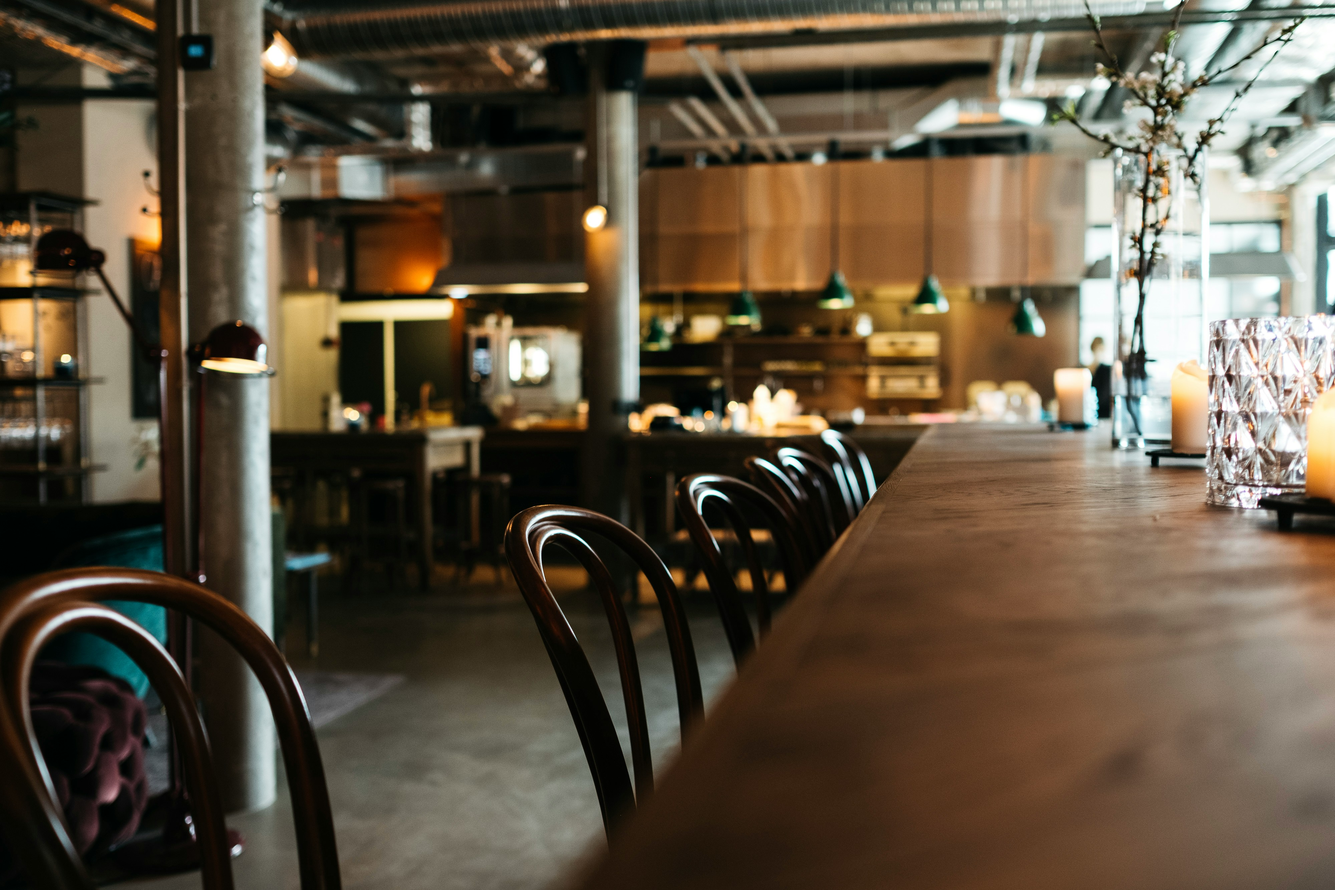
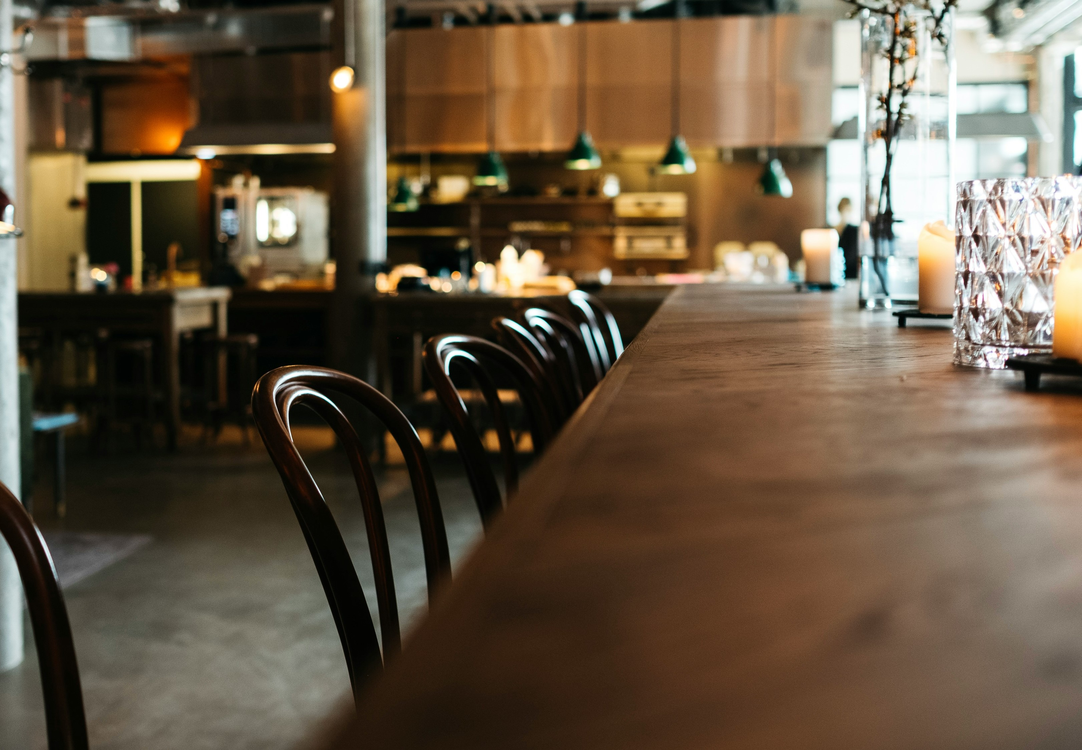
Pâtisserie du Café

diff --git a/index.html b/index.html
@@ -27,45 +27,44 @@
 <body>
     <header class="navbar navbar-expand-lg sticky-top p-4" id="cabecalho">
         <div class="container">
-            <h1 class="navbar-brand m-0 section-title">Pâtisserie du Café</h1>
+            <h1 class="navbar-brand m-0 section-title fs-3 fw-bold">Pâtisserie du Café</h1>
 
             <nav class="navbar-collapse collapse justify-content-end" id="navegation">
-                <li class="nav-item fw-bold">
+                <li class="nav-item fw-bold m-4">
                     <a href="#" class="nav-link">Home</a>
                 </li>
 
-                <li class="nav-item fw-bold">
+                <li class="nav-item fw-bold m-4">
                     <a href="#" class="nav-link">Cafés</a>
                 </li>
 
-                <li class="nav-item fw-bold">
+                <li class="nav-item fw-bold m-4">
                     <a href="#" class="nav-link">Produtos</a>
                 </li>
 
-                <li class="nav-item fw-bold">
+                <li class="nav-item fw-bold m-4">
                     <a href="#" class="nav-link">Contatos</a>
                 </li>
             </nav>
         </div>
     </header>
 
-    <main>
-        
+    <main>     
         <div data-bs-spy="scroll" data-bs-target="#cabecalho">
             <!--data-bs-smooth-scroll="true"-->
             <section id="slides">
                 <div class="carousel slide" data-bs-ride="carousel" id="carousel">
                     <div class="carousel-inner">
                         <div class="carousel-item active" data-bs-interval="3000">
-                            <img src="images/Local/Cofffee.jpg" alt="Graõs de Café">
+                            <img class="w-100" src="images/Local/coffee.jpg" alt="Graõs de Café">
                         </div>
 
                         <div class="carousel-item" data-bs-interval="3000">
-                            <img src="images/Local/fachada.jpg" alt="Fachada">
+                            <img class="w-100" src="images/Local/fachada.jpg" alt="Fachada">
                         </div>
 
                         <div class="carousel-item" data-bs-interval="3000">
-                            <img src="images/Local/interno da loja.jpg" alt="Interno da Loja">
+                            <img class="w-100" src="images/Local/interno da loja.jpg" alt="Interno da Loja">
                         </div>
                     </div>
 
@@ -88,8 +87,293 @@
                     </div>
                 </div>
             </section>
-
         </div>
+
+            <!--Produtos-->
+        <section id="produtos" class="pt-5">
+            <div class="container">
+                <div class="row">
+                    <h3 class="section-title text-center fs-1 mb-3">Grãos</h3>
+                </div>
+            </div>
+
+            <div class="row">
+                <div class="col-md-4">
+                    <img src="images/Marcas de café/coffee 3.jpg" alt="Battlecreek Coffee" class="d-block w-100 rounded mb-2 p-3">
+                    <h3 class="section-title m-3">Battlecreek Coffee</h3>
+                    <p class="m-3">O Battlecreek Coffee é uma empresa de café conhecida por sua abordagem artesanal na torrefação e preparo de café. Eles se destacam pela qualidade dos grãos selecionados e pela ênfase na sustentabilidade e comércio justo. Sua variedade de blends e single origins atrai entusiastas de café em busca de sabores distintos e de alta qualidade.</p>
+                </div>
+
+                <div class="col-md-4">
+                    <img src="images/Marcas de café/coffee 1.jpg" alt="Madalyn Coffee" class="d-block w-100 rounded mb-2 p-3">
+                    <h3 class="section-title">Madalyn Coffee</h3>
+                    <p>O Madalyn Coffee é uma marca de café especializada, famosa por suas torrefações artesanais e compromisso com a qualidade dos grãos. Eles oferecem uma variedade de blends e single origins, com ênfase em sabores distintos e autênticos. Sua abordagem sustentável e foco no comércio justo também são características marcantes da marca.</p>
+                </div>
+
+                <div class="col-md-4">
+                    <img src="images/Marcas de café/coffee 2.jpg" alt="Buddha Beans Coffee" class="d-block w-100 rounded mb-2 p-3">
+                    <h3 class="section-title">Buddha Beans Coffee</h3>
+                    <p>O Buddha Beans Coffee é uma empresa de café que se destaca pela sua abordagem única e espiritual. Eles combinam a arte da torrefação artesanal com a filosofia budista, buscando criar uma experiência de café que alimente não apenas o corpo, mas também a mente e o espírito. Seus produtos são conhecidos por sua qualidade premium e por promover uma sensação de bem-estar.</p>
+                </div>
+            </div>
+        </section>
+
+        <!--Cardápio-->
+        <section id="coffee" class="pt-5 pb-5">
+            <div class="container">
+                <div class="row">
+                    <h2 class="section-title text-center mb-5">Cafés</h2>
+                </div>      
+                
+                <!--Tabela-->
+                <div class="row">
+                    <aside class="col-md-2">
+                        <nav class="nav nav-pills flex-column nav-cardapio">
+                            <button type="button" data-bs-toggle="tab" data-bs-target="#cafes" class=" fw-bold text-start nav-link active">Cafés</button>
+
+                            <button type="button" data-bs-toggle="tab" data-bs-target="#ice-cafe" class="fw-bold text-start nav-link">Café Gelado</button>
+
+                            <button type="button" data-bs-toggle="tab" data-bs-target="#drinks" class="fw-bold text-start nav-link">Drinks</button>
+
+                            <button type="button" data-bs-toggle="tab" data-bs-target="#salgados" class="fw-bold text-start nav-link">Salgados</button>
+                        </nav>
+                    </aside>
+
+                    <div class="col-md-10">
+                        <div class="tab-content">
+                            <div class="tab-pane active" id="cafes">
+                                <div class="row">
+                                    <div class="col-md-3">
+                                        <img class="d-block w-100" src="images/coffee/café americano.jpg" alt="Café Americano">
+                                        <h5 class="fw-bold mt-2">Café Americano</h5>
+                                        <p>Expresso suavizado com água quente <br><strong>9,50</strong>
+                                        </p>
+                                    </div>
+
+                                    <div class="col-md-3">
+                                        <img class="d-block w-100" src="images/coffee/café com leite.jpg" alt="Café com leite">
+                                        <h5 class="fw-bold mt-2">Café com leite</h5>
+                                        <p>Expresso, leite vaporizado e espuma de leite <br><strong>10,50</strong>
+                                        </p>
+                                    </div>
+
+                                    <div class="col-md-3">
+                                        <img class="d-block w-100" src="images/coffee/café natural.jpg" alt="Café Natural">
+                                        <h5 class="fw-bold mt-2">Café Natural</h5>
+                                        <p>Grãos naturais passado no coador de papel<br><strong>17,00</strong>
+                                        </p>
+                                    </div>
+
+                                    <div class="col-md-3">
+                                        <img class="d-block w-100" src="images/coffee/café tradicional.jpg" alt="Café Tradicional">
+                                        <h5 class="fw-bold mt-2">Café Tradicional</h5>
+                                        <p>Sem açúcar e leite <br><strong>5,00</strong>
+                                        </p>
+                                    </div>
+
+                                    <div class="col-md-3">
+                                        <img class="d-block w-100" src="images/coffee/baunilha latte.jpg" alt="Baunilha Latte">
+                                        <h5 class="fw-bold mt-2">Baunilha Latte</h5>
+                                        <p>Leite vaporizado, expresso e essência de baunilha <br><strong>7,50</strong>
+                                        </p>
+                                    </div>
+
+                                    <div class="col-md-3">
+                                        <img class="d-block w-100" src="images/coffee/cappuccino de canela.jpg" alt="Cappuccino de Canela">
+                                        <h5 class="fw-bold mt-2">Cappuccino de Canela</h5>
+                                        <p>Expresso, canela e leite cremoso, com uma pitada de canela por cima  <br><strong>14,50</strong>
+                                        </p>
+                                    </div>
+
+                                    <div class="col-md-3">
+                                        <img class="d-block w-100" src="images/coffee/cappuccino tradicional.jpg" alt="Cappuccino Tradicional">
+                                        <h5 class="fw-bold mt-2">Cappuccino Tradicional</h5>
+                                        <p>Expresso com leite cremoso<br><strong>10,50</strong>
+                                        </p>
+                                    </div>
+                                </div>
+                            </div>
+
+                            <!--Café Gelado-->
+                            <div class="tab-pane" id="ice-cafe">
+                                <div class="row">
+                                    <div class="col-md-3">
+                                        <img class="d-block w-100" src="images/café gelado/café tradicional.jpg" alt="Café Tradicional Gelado">
+                                        <h5 class="fw-bold mt-2">Café Tradicional Gelado</h5>
+                                        <p>Sem açúcar e sem leite com gelo<br><strong>7,00</strong></p>
+                                    </div>
+    
+                                    <div class="col-md-3">
+                                        <img class="d-block w-100" src="images/café gelado/café latte gelado.jpg" alt="Café Latte Gelado">
+                                        <h5 class="fw-bold mt-2">Café Latte Gelado</h5>
+                                        <p>Expresso, leite frio, espuma de leite, café gelado e gelo<br><strong>13,50</strong></p>
+                                    </div>
+    
+                                    <div class="col-md-3">
+                                        <img class="d-block w-100" src="images/café gelado/caramelo macchiato.jpg" alt="Caramelo Macchiato">
+                                        <h5 class="fw-bold mt-2">Caramelo Macchiato</h5>
+                                        <p>Leite frio, baunilha, café gelado, cobertura de caramelo e gelo
+                                            <br><strong>10,50</strong></p>
+                                    </div>
+    
+                                    <div class="col-md-3">
+                                        <img class="d-block w-100" src="images/café gelado/baunilha latte.jpg" alt="Baunilha Latte">
+                                        <h5 class="fw-bold mt-2">Baunilha Latte</h5>
+                                        <p>Leite gelado, expresso e essência de baunilha com gelo<br><strong>9,50</strong></p>
+                                    </div>
+    
+                                    <div class="col-md-3">
+                                        <img class="d-block w-100" src="images/café gelado/doubleshot espresso ice.jpg" alt="Doubleshot Espresso Ice">
+                                        <h5 class="fw-bold mt-2">Doubleshot Espresso Ice</h5>
+                                        <p>Leite, gelo e café gelado<br><strong>15,50</strong></p>
+                                    </div>
+                                </div>
+                            </div>
+
+                            <div class="tab-pane" id="drinks">
+                                <div class="row">
+                                    <div class="col-md-3">
+                                        <img class="d-block w-100" src="images/drinks/banana.jpg" alt="Drink de Banana">
+                                        <h5 class="fw-bold mt-2">Drink de Banana</h5>
+                                        <p>Banana, melancia, pitaya, limonada<br><strong>16,00</strong></p>
+                                    </div>
+    
+                                    <div class="col-md-3">
+                                        <img class="d-block w-100" src="images/drinks/castanha.jpg" alt="Drink de Castanha">
+                                        <h5 class="fw-bold mt-2">Drink de Castanha</h5>
+                                        <p>Leite, banana, castanha de cajú e gelo <br><strong>17,50</strong></p>
+                                    </div>
+    
+                                    <div class="col-md-3">
+                                        <img class="d-block w-100" src="images/drinks/laranja.jpg" alt="Limonada com Laranja">
+                                        <h5 class="fw-bold mt-2">Limonada com laranja</h5>
+                                        <p>Limonada com laranja 
+                                            <br><strong>10,50</strong></p>
+                                    </div>
+    
+                                    <div class="col-md-3">
+                                        <img class="d-block w-100" src="images/drinks/morango.jpg" alt="Drink de Morango">
+                                        <h5 class="fw-bold mt-2">Drink de Morango</h5>
+                                        <p>Morango, pitayam frutas vermelhas e limão<br><strong>12,50</strong></p>
+                                    </div>
+                                </div>
+                            </div>
+    
+                            <!--Salgados-->
+                            <div class="tab-pane" id="salgados">
+                                <div class="row">
+                                    <div class="col-md-3">
+                                        <img class="d-block w-100" src="images/Salgados/coxinha.jpg" alt="Coxinha de Frango">
+                                        <h5 class="fw-bold mt-2">Coxinha de Frango</h5>
+                                        <p>Recheio de frango com requeijão cremoso<br><strong>10,50</strong></p>
+                                    </div>
+    
+                                    <div class="col-md-3">
+                                        <img class="d-block w-100" src="images/Salgados/misto croque.jpg" alt="Misto Croque">
+                                        <h5 class="fw-bold mt-2">Misto Croque</h5>
+                                        <p>Presunto, queijo prato, parmessão e pão<br><strong>12,50</strong></p>
+                                    </div>
+    
+                                    <div class="col-md-3">
+                                        <img class="d-block w-100" src="images/Salgados/misto de peru.jpg" alt="Misto de Peru">
+                                        <h5 class="fw-bold mt-2">Misto de Peru</h5>
+                                        <p>Pão artesanal na chapa com peito de peru <br><strong>17,00</strong></p>
+                                    </div>
+    
+                                    <div class="col-md-3">
+                                        <img class="d-block w-100" src="images/Salgados/misto de presunto.jpg" alt="Misto de Presunto">
+                                        <h5 class="fw-bold mt-2">Misto de Presunto</h5>
+                                        <p>Pão artesanal com presunto e muçarela<br><strong>10,50</strong></p>
+                                    </div>
+    
+                                    <div class="col-md-3">
+                                        <img class="d-block w-100" src="images/Salgados/pão de queijo.jpg" alt="Pão de Queijo">
+                                        <h5 class="fw-bold mt-2">Pão de Queijo</h5>
+                                        <p>Recheio cremoso<br><strong>8,50</strong></p>
+                                    </div>
+    
+                                    <div class="col-md-3">
+                                        <img class="d-block w-100" src="images/Salgados/torrada.jpg" alt="Torrada">
+                                        <h5 class="fw-bold mt-2">Torrada</h5>
+                                        <p>Pão artesanal tostado com manteiga<br><strong>7,50</strong></p>
+                                    </div>
+                                </div>
+                            </div>
+                        </div>
+                    </div>
+                </div>
+            </div>
+        </section>
+
+        <!--Trabalhe Conosco-->
+        <section id="trabalhe-conosco" class="pt-5 pb-5">
+            <div class="container">
+                <div class="row">
+                    <h2 class="section-title text-center">Trabalhe Conosco</h2>
+                </div>
+
+                <!--Formulário-->
+                <div class="row">
+                    <div class="col-md-7 mb-5"></div>
+                    <form>
+                        <div class="mb-3">
+                            <label for="nome" class="form-label fw-bold">Nome Completo: </label>
+                            <input type="text" id="nome" class="form-control" required>
+                        </div>
+
+                        <div class="mb-3">
+                            <label for="email" class="form-label fw-bold">E-mail: </label>
+                            <input type="email" id="email" class="form-control" required>
+                        </div>
+
+                        <div class="mb-3">
+                            <label for="tel" class="form-label fw-bold">Telefone: </label>
+                            <input type="tel" id="tel" class="form-control" required>
+                        </div>
+
+                        <div class="mb-3">
+                            <label for="arquivo" class="form-label fw-bold">Currículo: </label>
+                            <input type="file" id="arquivo" class="form-control" required>
+                        </div>
+
+                        <button type="submit" class="btn fw-bold mb-4" >Enviar</button>
+                    </form>
+                </div>
+
+                <!--Redes Sociais-->
+                <div class="col-md-5">
+                    <div class="row">
+                        <h3 class="section-title fs-4">
+                            <i class="bi bi-hand-thumbs-up-fill"></i>
+                            Redes Sociais
+                        </h3>
+
+                        <!--Links-->
+                        <ul class="social-media">
+                            <li class="fs-5">
+                                <a href="#">
+                                    <i class="bi bi-linkedin"></i>
+                                </a>
+                            </li>
+
+                            <li class="fs-5">
+                                <a href="#">
+                                    <i class="bi bi-instagram"></i>
+                                </a>
+                            </li>
+
+                            <li class="fs-5">
+                                <a href="#">
+                                    <i class="bi bi-tiktok"></i>
+                                </a>
+                            </li>
+                        </ul>
+                    </div>
+                </div>
+            </div>
+        </section>
     </main>
+    <!--Script do Bootstrap-->
+    <script src="https://cdn.jsdelivr.net/npm/bootstrap@5.3.3/dist/js/bootstrap.bundle.min.js"></script>
 </body>
 </html>

diff --git a/main.css b/main.css
@@ -14,3 +14,27 @@ Color:
 #29222A
 #362629
 */
+
+body {
+    font-family: "Poppins", sans-serif;
+}
+
+#cabecalho {
+    background-color: #362629;
+    color: #D3BCAF;
+}
+
+#cabecalho h1 {
+    color: #D3BCAF;
+    font-family: "Dancing Script", cursive;
+}
+
+#navegation li{
+    list-style: none;
+}
+
+#produtos h3, #cafes h2{
+    color: #362629;
+    font-family: "Dancing Script", cursive;
+}
+

diff --git a/images/Local/HTML e CSS/Estudos/html-css/README.md b/images/Local/HTML e CSS/Estudos/html-css/README.md
@@ -1,0 +1,2 @@
+# html-css
+ Curso de HTML 5 e CSS3- Cursoemvideo
